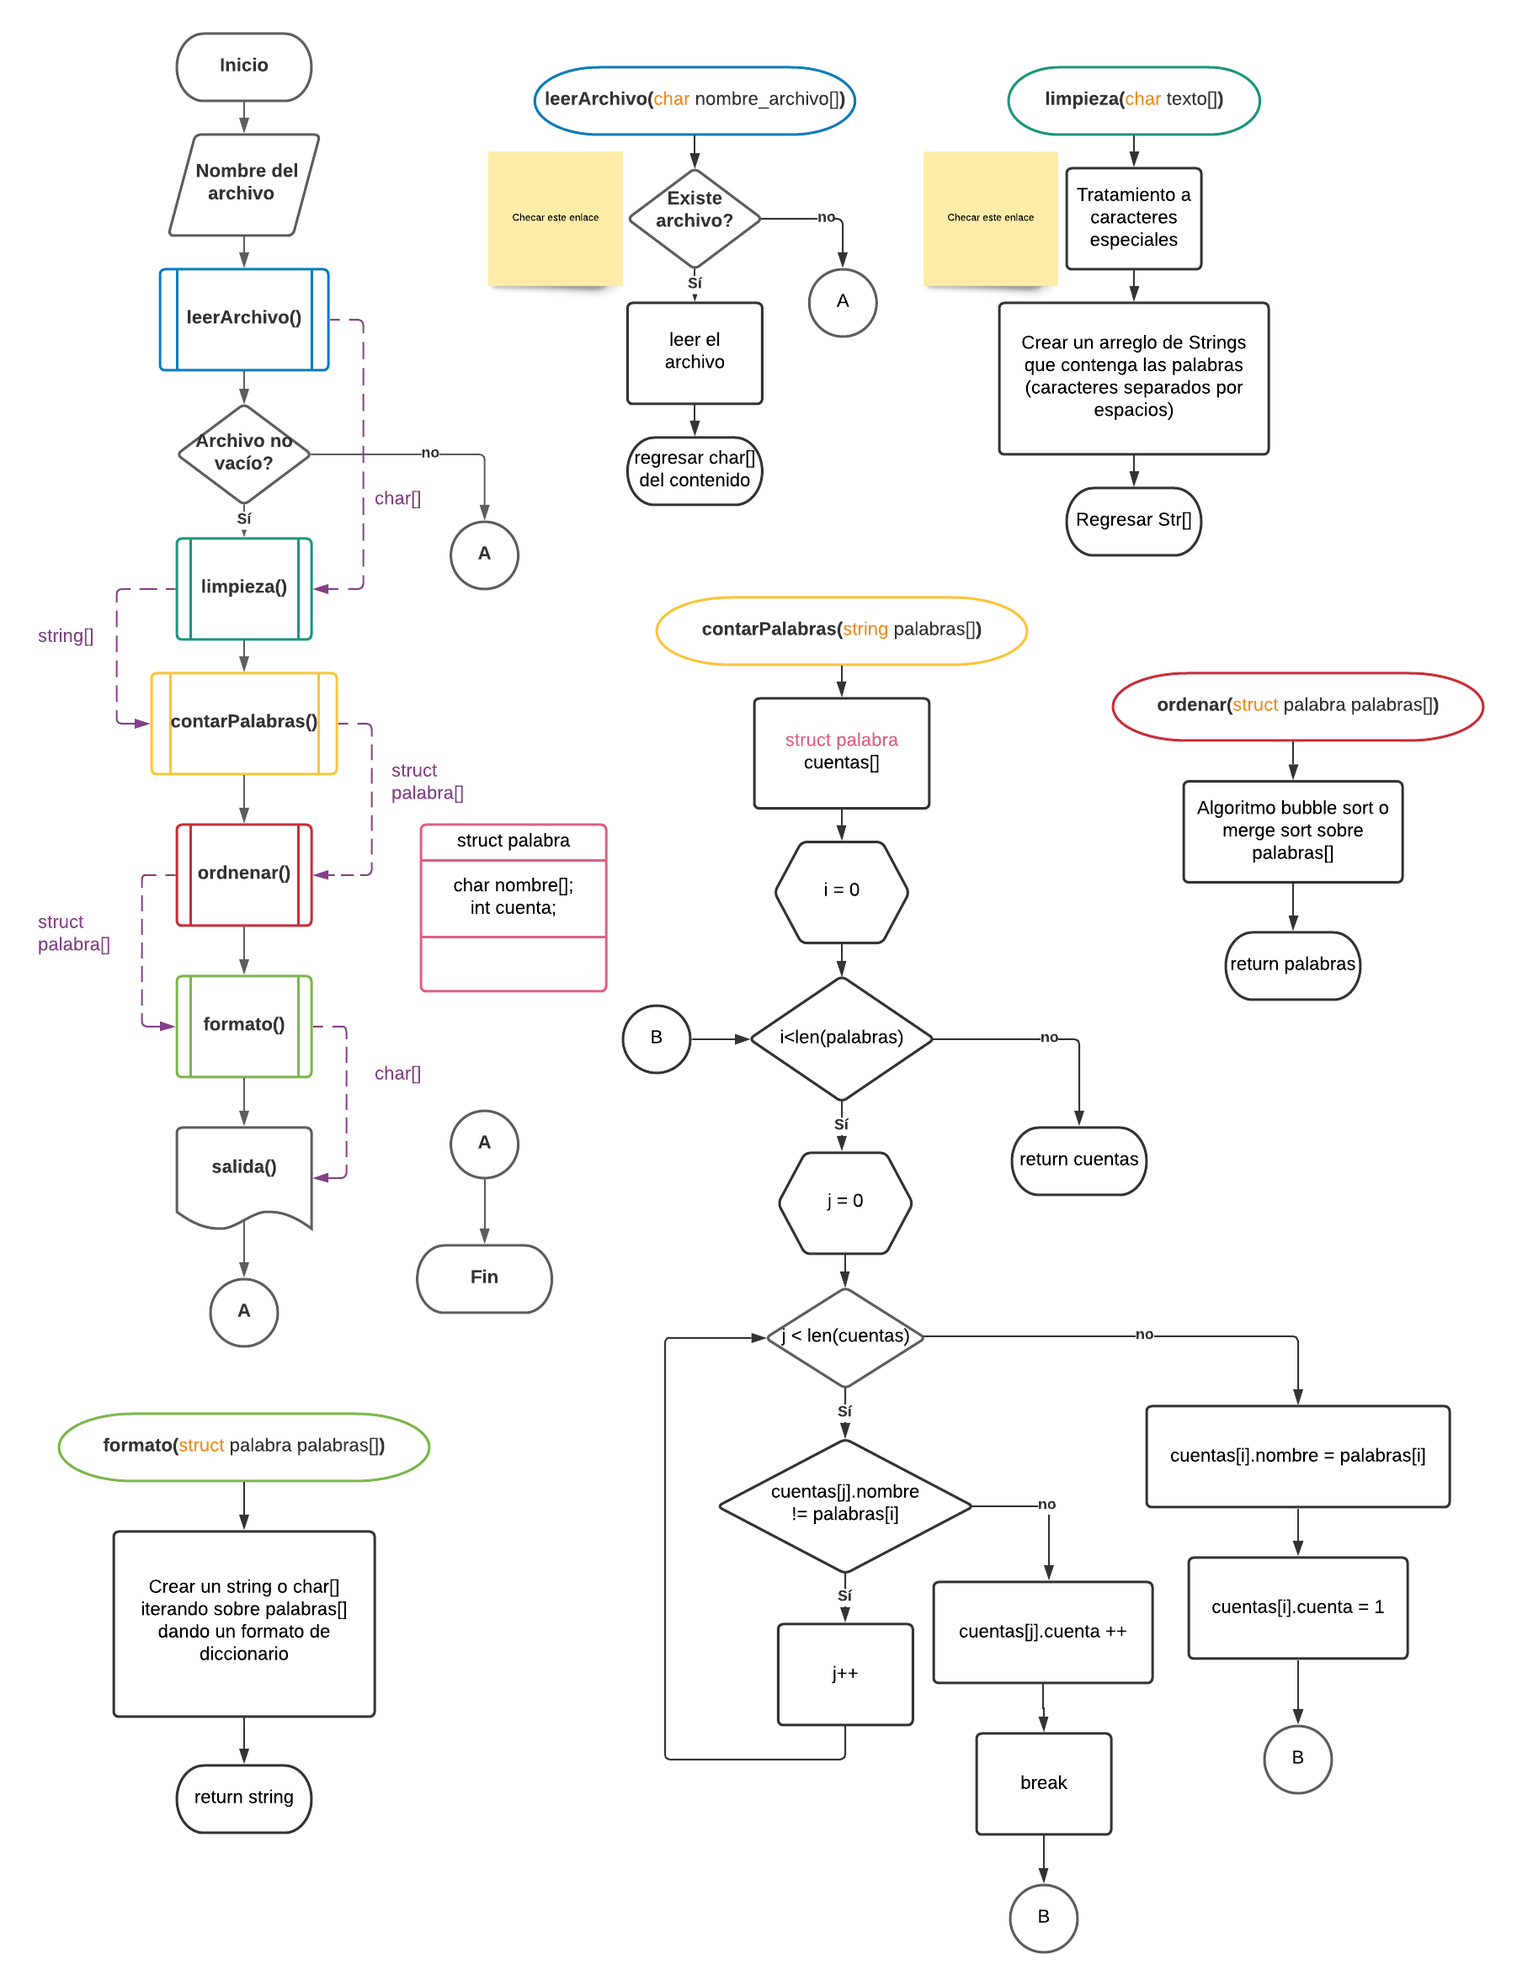
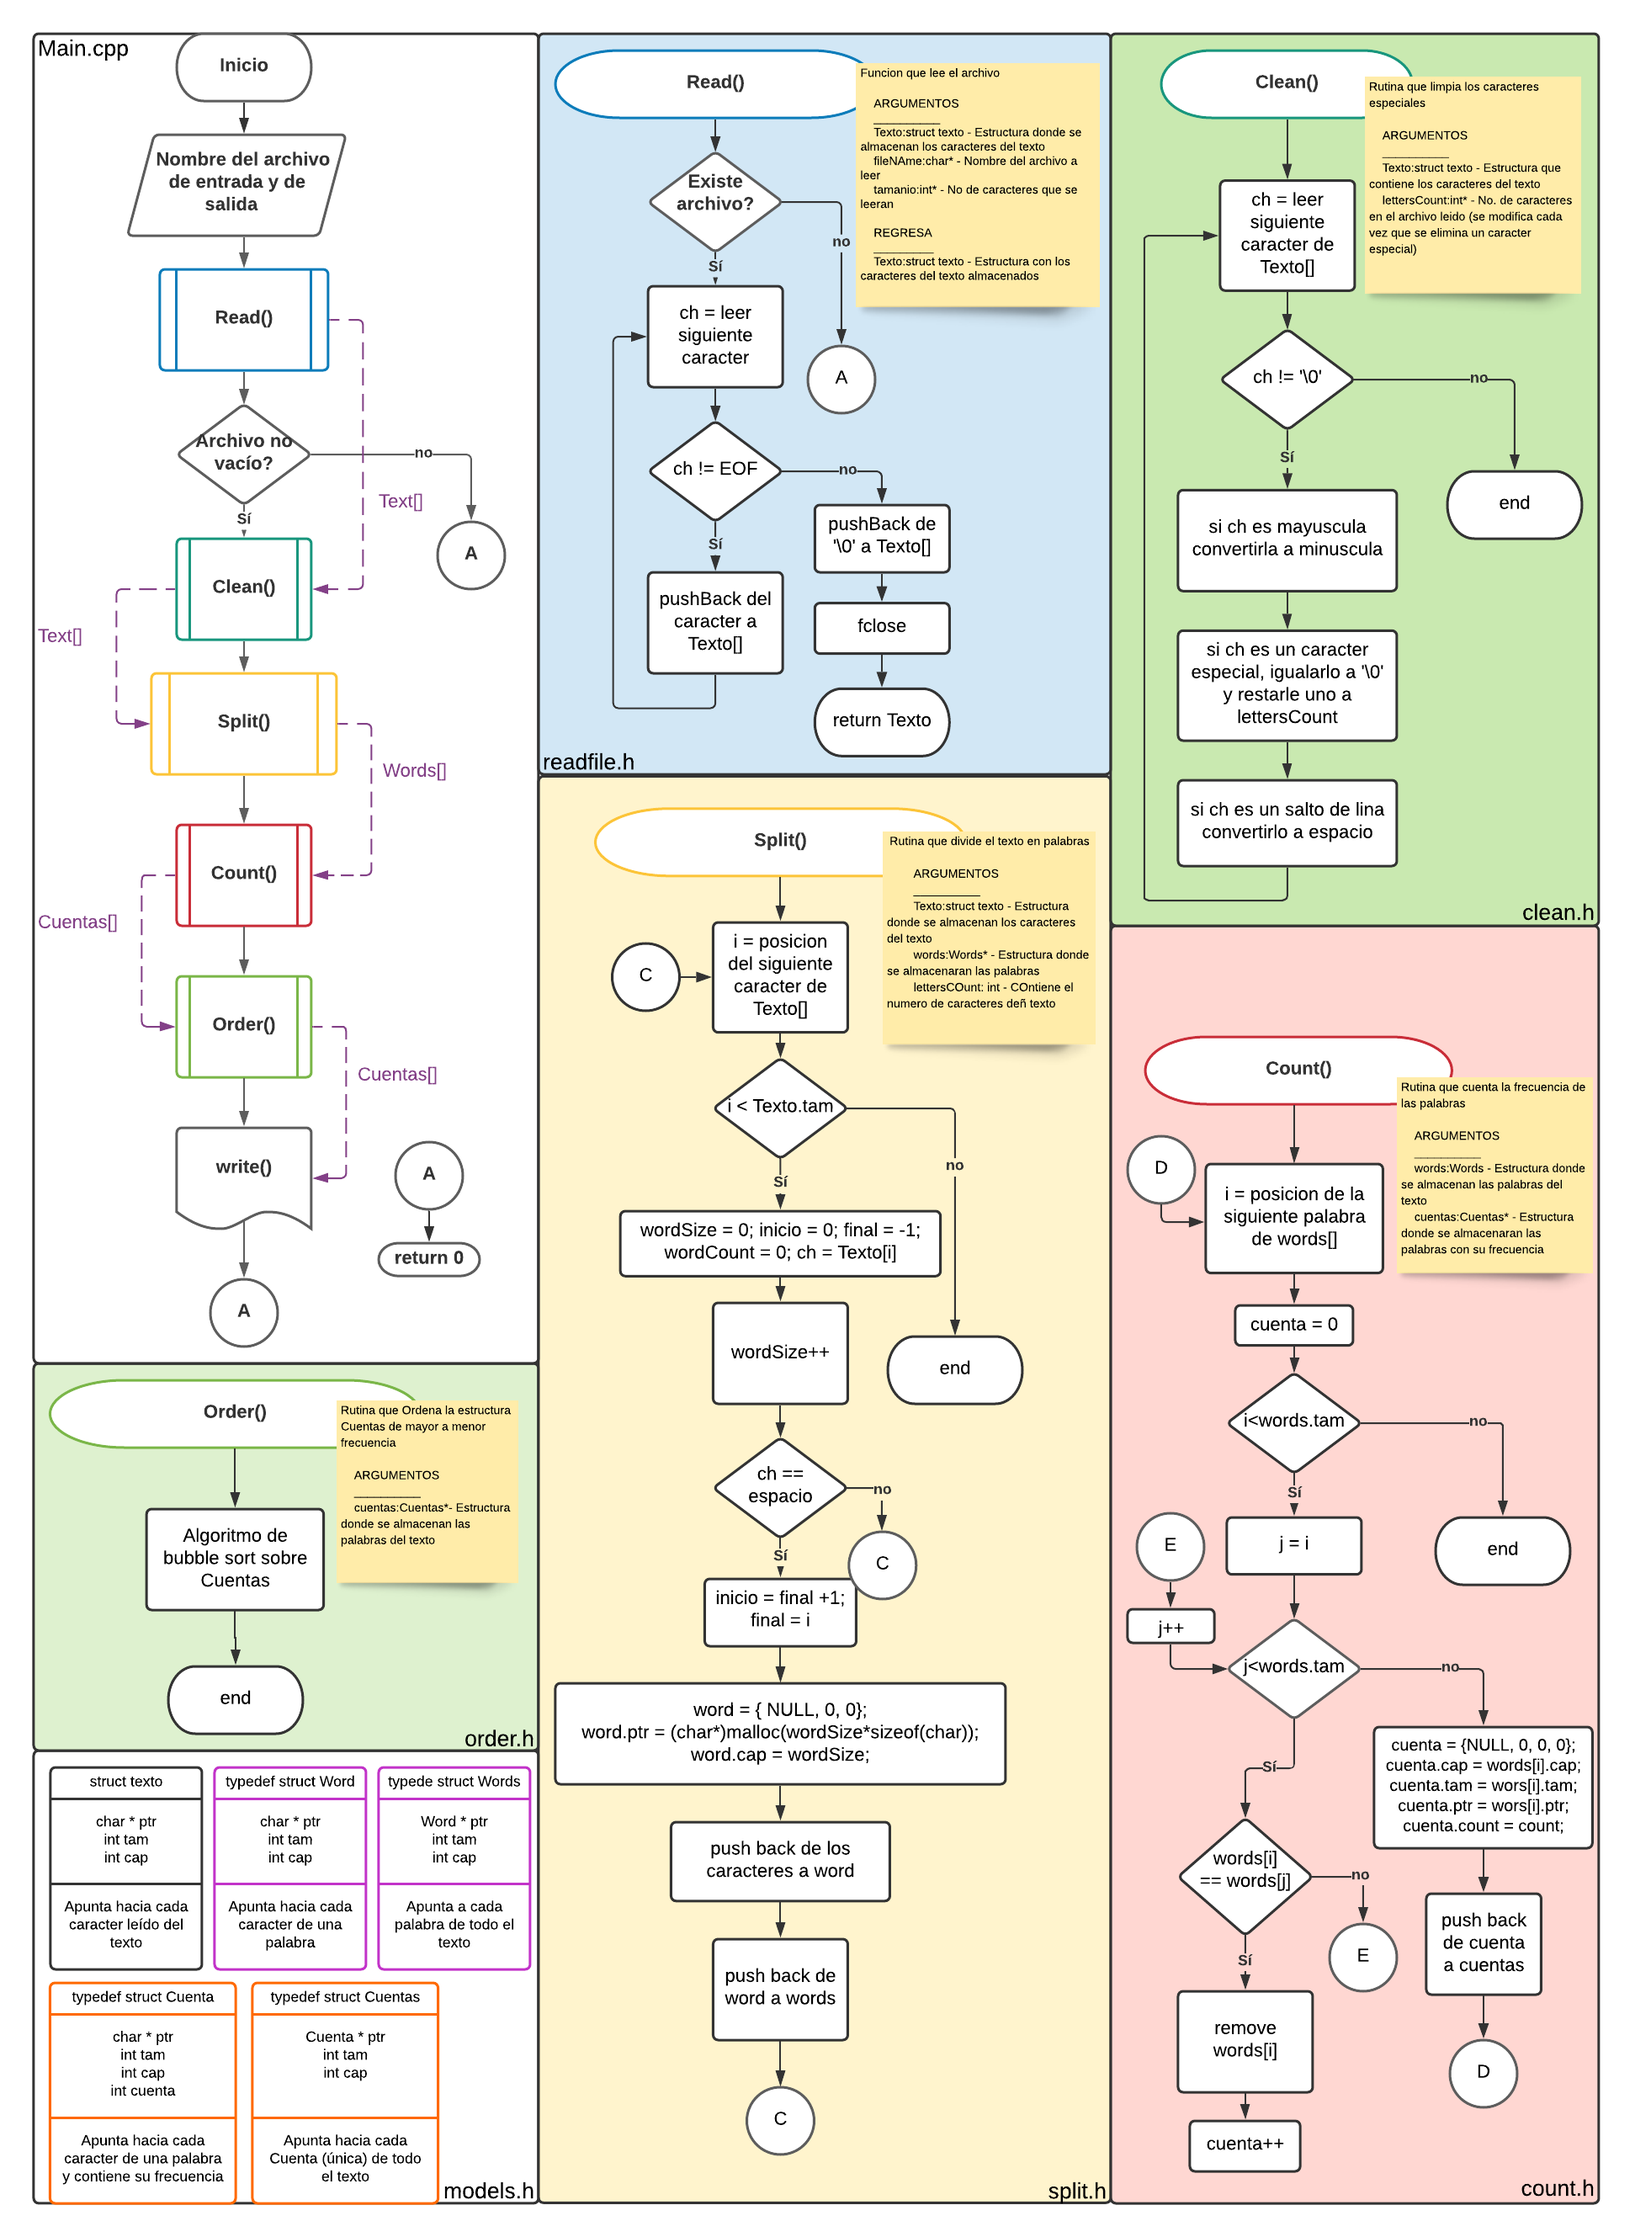
image updated

diff --git a/Source Files/readfile.h b/Source Files/readfile.h
@@ -8,7 +8,7 @@
 
 struct texto Read(struct texto Texto, char * fileName, int *tamanio){
     /*
-    Rutina que lee el archivo 
+    Funcion que lee el archivo 
     
     ARGUMENTOS
     __________
